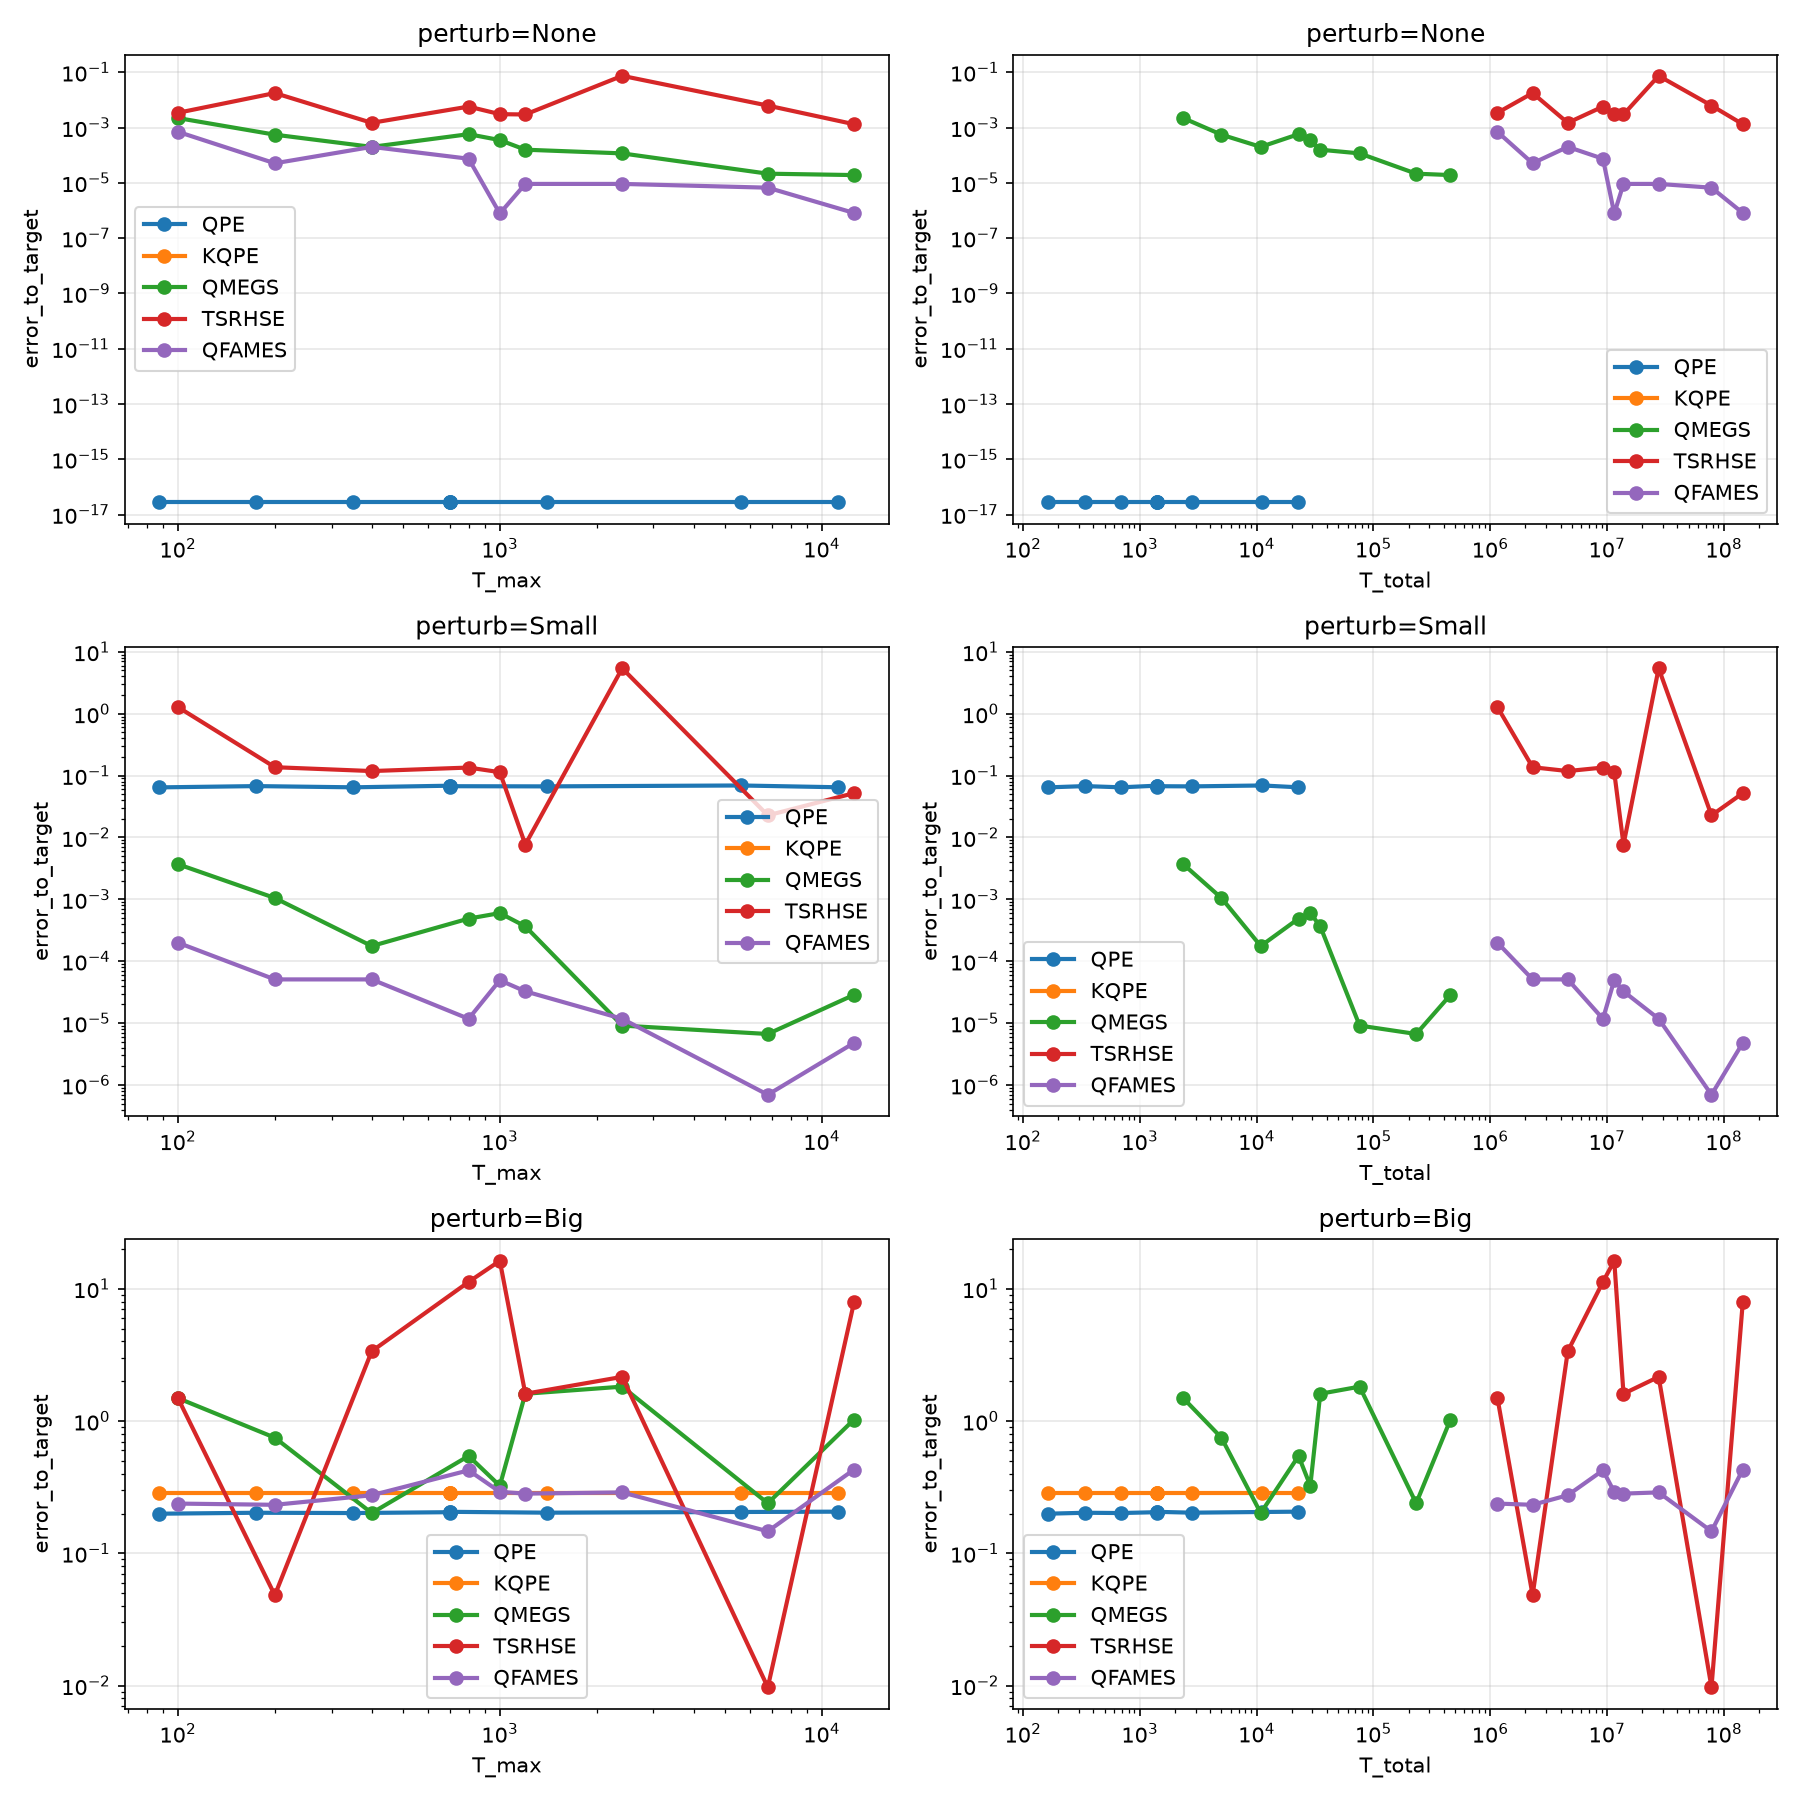
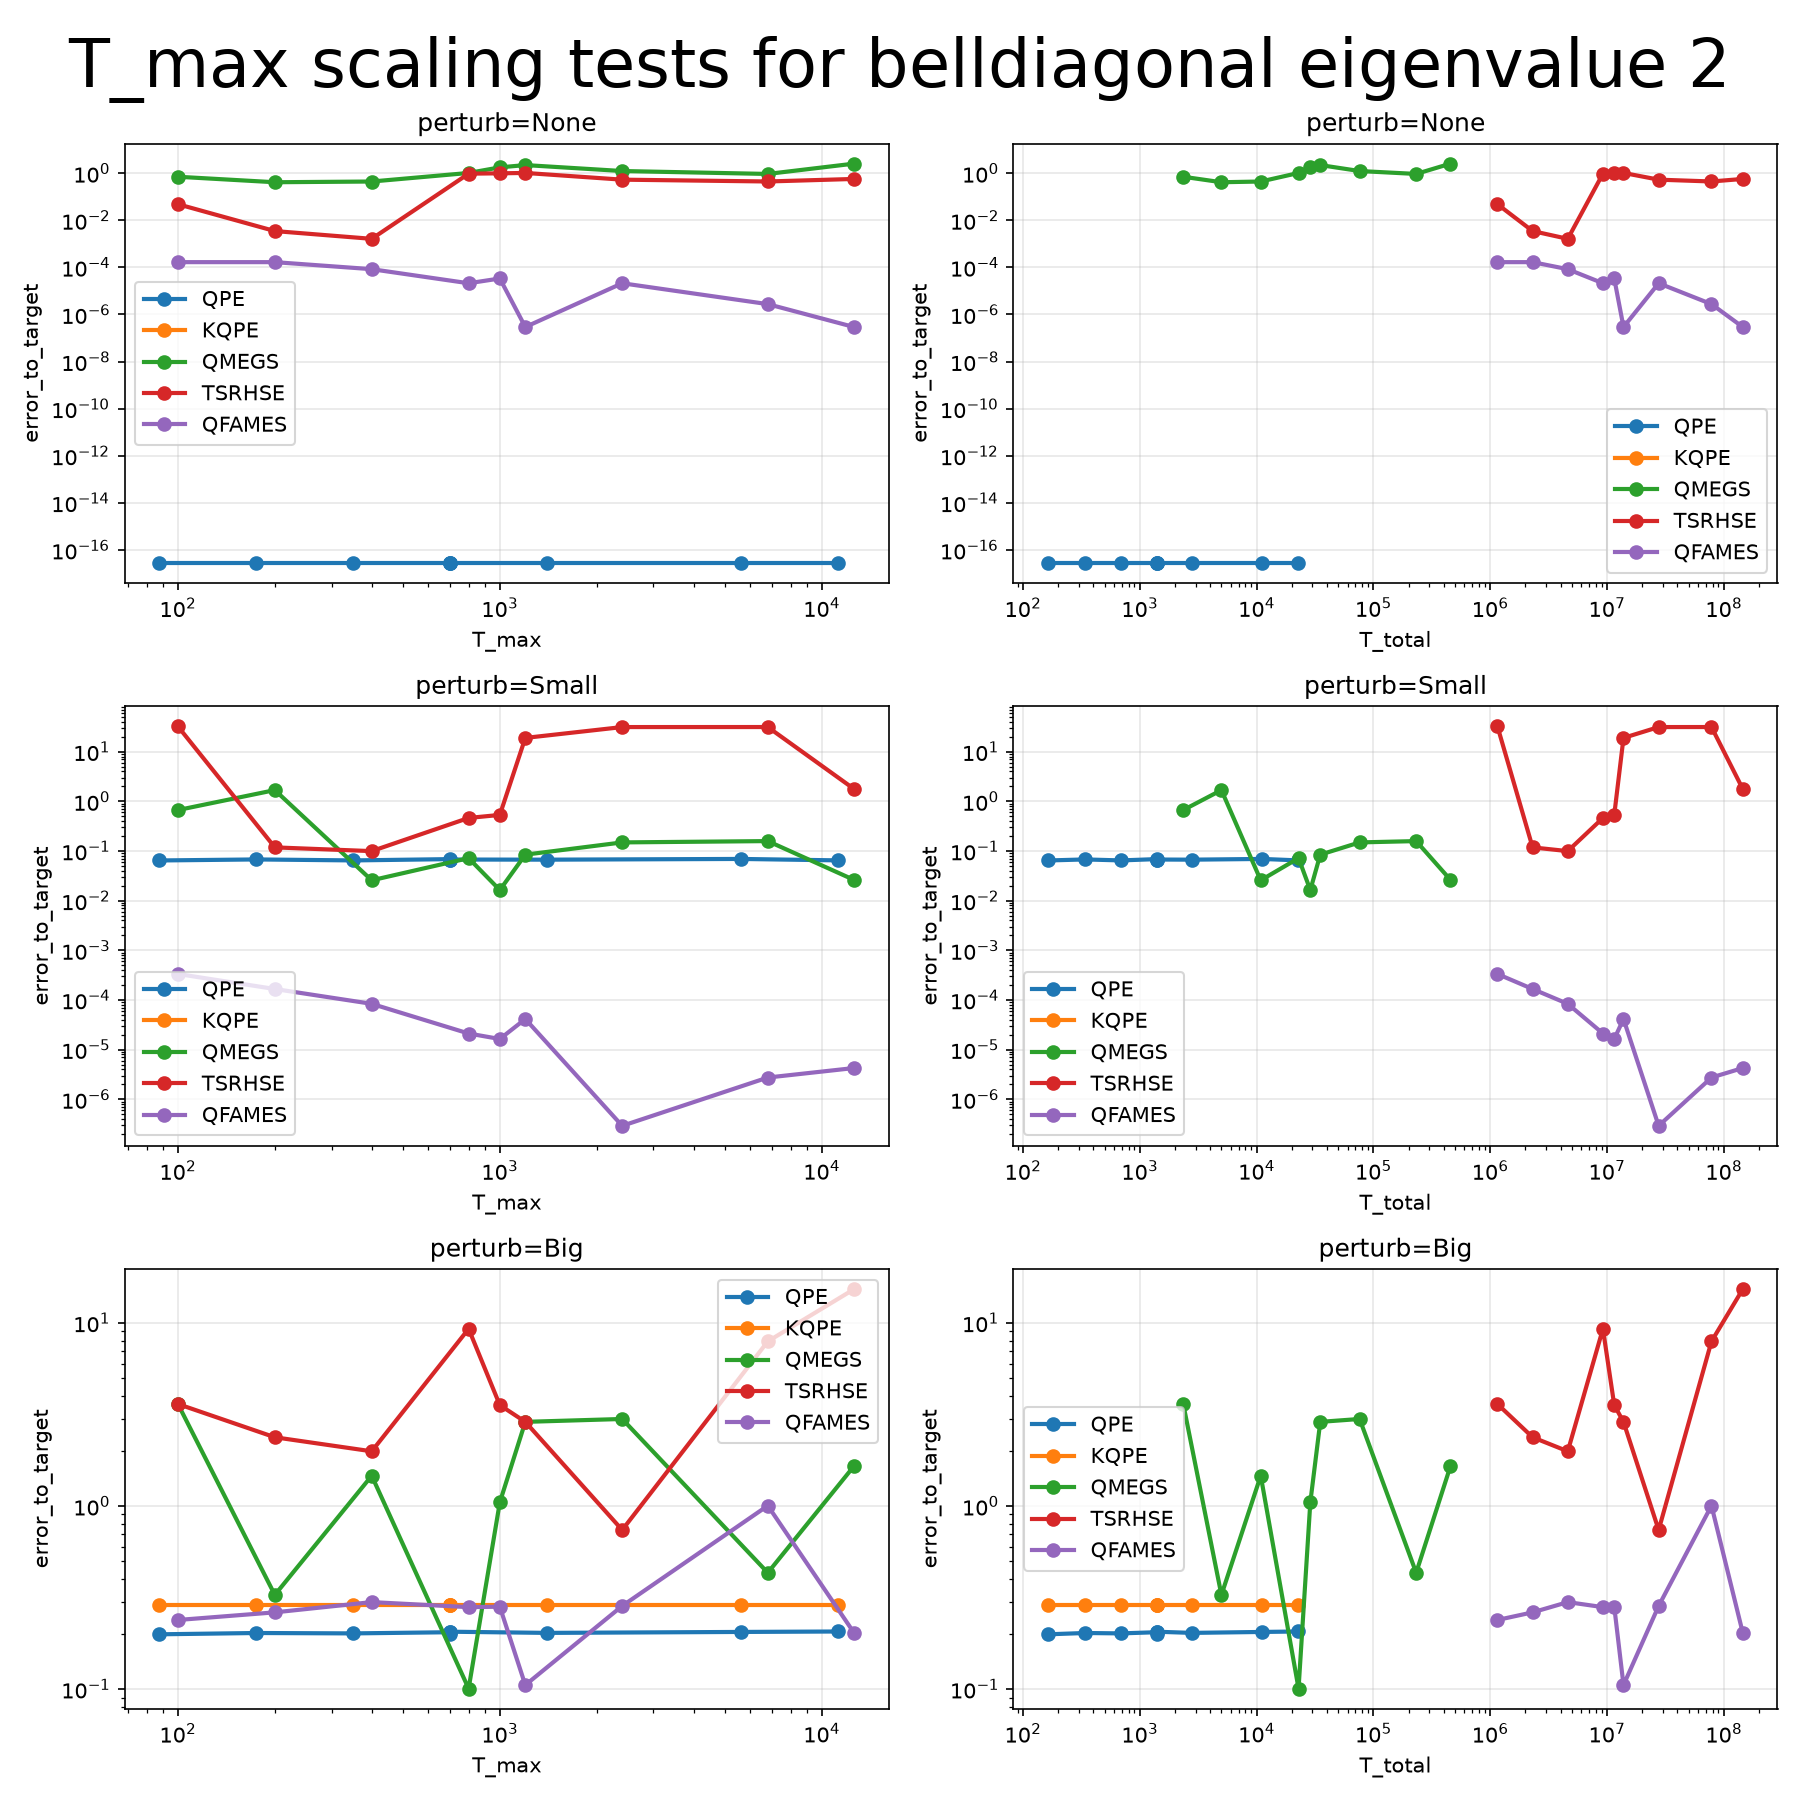
added XXZ and TFIM hamiltonians and new data

diff --git a/data_analysis.py b/data_analysis.py
@@ -6,12 +6,69 @@ import numpy as np
 import pandas as pd
 import matplotlib.pyplot as plt
 
-def get_target_error(value):
-    if isinstance(value, str):
-        value = ast.literal_eval(value)
+def parse_numeric_value(value):
+    if value is None or pd.isna(value):
+        return np.nan
+
+    if isinstance(value, (int, float, np.integer, np.floating)):
+        return float(value)
+
     if isinstance(value, (list, tuple, np.ndarray)):
+        arr = np.asarray(value, dtype=object)
+        parsed = []
+        for item in arr.tolist():
+            parsed.append(parse_numeric_value(item))
+        return np.asarray(parsed, dtype=float)
+
+    if isinstance(value, str):
+        s = value.strip()
+        if not s:
+            return np.nan
+        s_lower = s.lower()
+        if s_lower in {"nan", "none", "null"}:
+            return np.nan
+        if s_lower in {"inf", "+inf", "infinity", "+infinity"}:
+            return float("inf")
+        if s_lower in {"-inf", "-infinity"}:
+            return float("-inf")
+
+        if s.startswith("[") and s.endswith("]"):
+            inner = s[1:-1].strip()
+            if not inner:
+                return np.array([], dtype=float)
+            items = [part.strip() for part in inner.split(",")]
+            parsed = [parse_numeric_value(item) for item in items]
+            return np.asarray(parsed, dtype=float)
+
+        # Fall back to literal_eval for normal scalar strings and simple Python lists.
+        try:
+            parsed = ast.literal_eval(s)
+        except (SyntaxError, ValueError):
+            return float(s)
+        return parse_numeric_value(parsed)
+
+    return float(value)
+
+
+def get_target_error(value):
+    value = parse_numeric_value(value)
+    if isinstance(value, np.ndarray):
+        if value.size == 0:
+            return np.nan
+        if target_eigenvalue_index >= len(value):
+            return np.nan
         value = value[target_eigenvalue_index]
     return float(value)
+
+
+def get_average_error(value):
+    value = parse_numeric_value(value)
+    if isinstance(value, np.ndarray):
+        if value.size == 0:
+            return np.nan
+        return float(np.nanmean(value))
+    return float(value)
+
 
 os.makedirs("data/plots", exist_ok=True)
 
@@ -23,18 +80,21 @@ perturbation_params = { # length 3
     "Small": {"range": 1, "scale": 0.5},
     "Big": {"range": 3, "scale": 1},
 }
-Hamiltonian_name = "belldiagonal"
+Hamiltonian_name = "XXZ_8x8"
 df = pd.read_csv(f"data/dataframes/{Hamiltonian_name}.csv")
 algo_order = df["algorithm"].unique().dropna()
 
-target_eigenvalue_index = 0
+target_eigenvalue_index = 2
 df["error_to_target"] = df["errors"].map(get_target_error)
+df["average_error"] = df["errors"].map(get_average_error)
 
 for test_type in df["test_type"].unique():
     # if test_type == "true eigenvalues": continue
     if test_type == "eps":
         # 3x3 grid for eps tests
         fig, axes = plt.subplots(3, 3, figsize=(15, 12))
+        fig.suptitle(f"Eps scaling tests for {Hamiltonian_name} eigenvalue {target_eigenvalue_index}", fontsize=32)
+
         x_labels = ["eps", "T_max", "T_total"]
         x_cols = ["param_value", "T_max", "T_total"]
         
@@ -79,9 +139,51 @@ for test_type in df["test_type"].unique():
         plt.close()
         print(f"Saved eps plots to data/plots/{Hamiltonian_name}_eps_plots.png")
 
+        # Average error across all eigenvalues
+        fig_avg, axes_avg = plt.subplots(3, 3, figsize=(15, 12))
+        fig_avg.suptitle(f"Average error across all eigenvalues for {Hamiltonian_name} (eps)", fontsize=32)
+
+        for row, perturb in enumerate(perturbation_params.keys()):
+            for col, (x_label, x_col) in enumerate(zip(x_labels, x_cols)):
+                ax = axes_avg[row, col]
+
+                if perturb == "None":
+                    df_filtered_with_true = df[(df["perturb"] == "None") | (pd.isna(df["perturb"]))]
+                else:
+                    df_filtered_with_true = df[df["perturb"] == perturb]
+
+                df_filtered = df_filtered_with_true[df_filtered_with_true["test_type"] == "eps"]
+
+                for algo in algo_order:
+                    df_algo = df_filtered[df_filtered["algorithm"] == algo]
+                    if df_algo.empty:
+                        continue
+                    df_algo = df_algo.sort_values(by=x_col)
+                    ax.plot(df_algo[x_col], df_algo["average_error"], marker='o', label=algo, linewidth=2)
+
+                ax.set_xlabel(x_label)
+                ax.set_ylabel("average_error")
+                ax.set_title(f"perturb={perturb}")
+                ax.legend()
+                ax.grid(True, alpha=0.3)
+                if use_y_axis_log_scale:
+                    ax.set_yscale('log')
+                if use_x_axis_log_scale:
+                    ax.set_xscale('log')
+
+                if col == 0:
+                    ax.invert_xaxis()
+
+        plt.tight_layout()
+        plt.savefig(f"data/plots/{Hamiltonian_name}_eps_plots_avg.png", dpi=150)
+        plt.close()
+        print(f"Saved avg eps plots to data/plots/{Hamiltonian_name}_eps_plots_avg.png")
+
     elif test_type == "T_max":
         # 3x2 grid for T_max tests
         fig, axes = plt.subplots(3, 2, figsize=(12, 12))
+        fig.suptitle(f"T_max scaling tests for {Hamiltonian_name} eigenvalue {target_eigenvalue_index}", fontsize=32)
+
         x_labels = ["T_max", "T_total"]
         x_cols = ["T_max", "T_total"]
         
@@ -121,3 +223,40 @@ for test_type in df["test_type"].unique():
         plt.savefig(f"data/plots/{Hamiltonian_name}_T_max_plots.png", dpi=150)
         plt.close()
         print(f"Saved T_max plots to data/plots/{Hamiltonian_name}_T_max_plots.png")
+
+        # Average error across all eigenvalues
+        fig_avg, axes_avg = plt.subplots(3, 2, figsize=(12, 12))
+        fig_avg.suptitle(f"Average error across all eigenvalues for {Hamiltonian_name} (T_max)", fontsize=32)
+
+        for row, perturb in enumerate(perturbation_params.keys()):
+            for col, (x_label, x_col) in enumerate(zip(x_labels, x_cols)):
+                ax = axes_avg[row, col]
+
+                if perturb == "None":
+                    df_filtered_with_true = df[(df["perturb"] == "None") | (pd.isna(df["perturb"]))]
+                else:
+                    df_filtered_with_true = df[df["perturb"] == perturb]
+
+                df_filtered = df_filtered_with_true[df_filtered_with_true["test_type"] == "T_max"]
+
+                for algo in algo_order:
+                    df_algo = df_filtered[df_filtered["algorithm"] == algo]
+                    if df_algo.empty:
+                        continue
+                    df_algo = df_algo.sort_values(by=x_col)
+                    ax.plot(df_algo[x_col], df_algo["average_error"], marker='o', label=algo, linewidth=2)
+
+                ax.set_xlabel(x_label)
+                ax.set_ylabel("average_error")
+                ax.set_title(f"perturb={perturb}")
+                ax.legend()
+                ax.grid(True, alpha=0.3)
+                if use_y_axis_log_scale:
+                    ax.set_yscale('log')
+                if use_x_axis_log_scale:
+                    ax.set_xscale('log')
+
+        plt.tight_layout()
+        plt.savefig(f"data/plots/{Hamiltonian_name}_T_max_plots_avg.png", dpi=150)
+        plt.close()
+        print(f"Saved avg T_max plots to data/plots/{Hamiltonian_name}_T_max_plots_avg.png")

diff --git a/main.py b/main.py
@@ -80,6 +80,13 @@ def get_errors(true, estimate, target):
 
     return errors.tolist()
 
+def normalize_output_energy(output_energy, algorithm, sort=False):
+    values = np.asarray(output_energy, dtype=object).ravel().tolist()
+    missing_count = sum(value is None for value in values)
+    values = [value for value in values if value is not None]
+    energies = np.real(np.asarray(values)).tolist()
+    return sorted(energies) if sort else energies
+
 
 def main():
     args = parse_args()
@@ -131,13 +138,13 @@ def main():
     # Number of perturbations and their strength
     perturbation_params = { # length 3
         "None": {"range": None, "scale": None},
-        # "Small": {"range": 1, "scale": 0.5},
-        # "Big": {"range": 3, "scale": 1},
+        "Small": {"range": 1, "scale": 0.5},
+        "Big": {"range": 3, "scale": 1},
     }
 
     # Test configurations: iterate through eps_array and T_max_array separately
     # eps_array = np.array([0.5, 0.1, 0.05, 0.01, 0.005, 0.001, 0.0005, 0.0001])
-    T_max_array = np.array([200]) #
+    T_max_array = np.array([100, 200, 400, 800, 1200, 1600, 2400, 3200]) #
     test_configs = {
         # "eps": {"array": eps_array, "name": "eps"},
         "T_max": {"array": T_max_array, "name": "T_max"}
@@ -219,7 +226,7 @@ def main():
                         output_energy = function(Z, dx, t_list, K, T_max_alg)
                         end_time = time.perf_counter()
 
-                        my_eigenvalue = np.real(sorted(output_energy)).tolist()
+                        my_eigenvalue = normalize_output_energy(output_energy, alg, sort=True)
                     else:
                         aux_function = getattr(aux_functions, alg+"_setup")
 
@@ -232,7 +239,7 @@ def main():
                         start_time = time.perf_counter()
                         output_energy = algorithms.TSRHSE(Z_tsrhse, t_list)
                         end_time = time.perf_counter()
-                        my_eigenvalue = np.real(sorted(output_energy)).tolist()
+                        my_eigenvalue = normalize_output_energy(output_energy, "TSRHSE", sort=True)
                         print(f"\tfinished TSRHSE in {end_time - start_time:.6f} seconds")
 
                         results_row = {
@@ -251,6 +258,7 @@ def main():
                         results_df.to_csv(f"data/dataframes/{name}.csv", index=False)
 
                         start_time = time.perf_counter()
+                        output_energy = None
                         try:
                             if verbose:
                                 output_energy, output_num, output_vector = algorithms.QFAMES(Z_qfames, dx, t_list, K, T_max_alg, tau, verbose=verbose)
@@ -262,7 +270,7 @@ def main():
                             print(f"\tQFAMES failed: {e}")
                         end_time = time.perf_counter()
 
-                        my_eigenvalue = np.real(output_energy).tolist()
+                        my_eigenvalue = normalize_output_energy(output_energy, alg)
 
                     print(f"\tfinished {alg} in {end_time - start_time:.6f} seconds")
                     results_row = {

diff --git a/hamiltonians.py b/hamiltonians.py
@@ -7,11 +7,37 @@ def _belldiagonal_4x4():
         [0, 3, -1, 0],
         [0, -1, 3, 0],
         [-1, 0, 0, -2],
-    ],dtype=float,)
+    ],dtype=float)
 
 
 def _belldiagonal_16x16():
     return np.kron(_belldiagonal_4x4(), _belldiagonal_4x4())
+
+
+def _TFIM_8x8():
+    return np.array([
+        [-2, -1, -1,  0, -1,  0,  0,  0],
+        [-1,  0,  0, -1,  0, -1,  0,  0],
+        [-1,  0,  2, -1,  0,  0, -1,  0],
+        [0,  -1, -1,  0,  0,  0,  0, -1],
+        [-1,  0,  0,  0,  0, -1, -1,  0],
+        [0,  -1,  0,  0, -1,  2,  0, -1],
+        [0,   0, -1,  0, -1,  0,  0, -1],
+        [0,   0,  0, -1,  0, -1, -1, -2]
+    ], dtype=float)
+
+
+def _XXZ_8x8():
+    return np.array([
+        [1, 0, 0,  0, 0,  0, 0, 0],
+        [0, 0, 2,  0, 0,  0, 0, 0],
+        [0, 2, -1, 0, 2,  0, 0, 0],
+        [0, 0, 0,  0, 0,  2, 0, 0],
+        [0, 0, 2,  0, -1, 0, 0, 0],
+        [0, 0, 0,  2, 0,  0, 2, 0],
+        [0, 0, 0,  0, 0,  2, 0, 0],
+        [0, 0, 0,  0, 0,  0, 0, 1]
+    ], dtype=float)
 
 
 def _diagonal_8x8():
@@ -52,6 +78,10 @@ HAMILTONIANS = {
     "belldiagonal4x4": _belldiagonal_4x4,
     "diagonal8x8": _diagonal_8x8,
     "diagonal_8x8": _diagonal_8x8,
+    "TFIM_8x8": _TFIM_8x8,
+    "TFIM8x8": _TFIM_8x8,
+    "XXZ_8x8": _XXZ_8x8,
+    "XXZ8x8": _XXZ_8x8,
     "belldiagonal16x16": _belldiagonal_16x16,
     "belldiagonal_16x16": _belldiagonal_16x16,
     "diagonal16x16": _diagonal_16x16,
@@ -73,6 +103,10 @@ def get_hamiltonian(name):
         "belldiagonal4x4": "belldiagonal4x4",
         "diagonal8x8": "diagonal8x8",
         "diagonal_8x8": "diagonal8x8",
+        "tfim_8x8": "TFIM8x8",
+        "tfim8x8": "TFIM8x8",
+        "xxz_8x8": "XXZ8x8",
+        "xxz8x8": "XXZ8x8",
         "belldiagonal16x16": "belldiagonal16x16",
         "belldiagonal_16x16": "belldiagonal16x16",
         "diagonal16x16": "diagonal16x16",

diff --git a/algorithms.py b/algorithms.py
@@ -669,13 +669,18 @@ def TSRHSE(Z, t_list, verbosity = 0):
     N = len(t_list)
     Q = np.shape(Z)[0]
 
+    # Sort t_list so we can later obtain consecutive pairs of T's 
     sorted_idx = np.argsort(t_list)
+
+    # Now that t_list is sorted, each consecutive index contains the closest T_max to each other
     pairs = [(int(sorted_idx[i]), int(sorted_idx[i+1])) for i in range(N-1)]
+    
+    # Sort pairs based on distance to each other
     pairs = sorted(pairs, key=lambda p: abs(t_list[p[0]] - t_list[p[1]]))
 
-    # Scale ladder: double dt each step
-    dt_min = abs(t_list[pairs[0][0]] - t_list[pairs[0][1]])
-    dt_max = abs(t_list[pairs[-1][0]] - t_list[pairs[-1][1]])
+    # Scale ladder: double change in t (dt) at each step
+    dt_min = abs(t_list[pairs[0][0]] - t_list[pairs[0][1]]) # Since pairs is sorted, the minimum dt sits is in the beginning
+    dt_max = abs(t_list[pairs[-1][0]] - t_list[pairs[-1][1]]) # The maximum dt is at the end
     if verbosity > 0: print(f"dt_min = {dt_min}, dt_max = {dt_max}")
 
     scales = []
@@ -713,7 +718,7 @@ def TSRHSE(Z, t_list, verbosity = 0):
         if current_est is None:
             current_est = raw
         else:
-            # Unwap: find the integer k that brings raw closest to current_est
+            # Unwrap: find the integer k that brings raw closest to current_est
             k = np.round((current_est - raw) * target_dt / (2 * np.pi))
             current_est = raw + 2 * np.pi * k / target_dt
 
